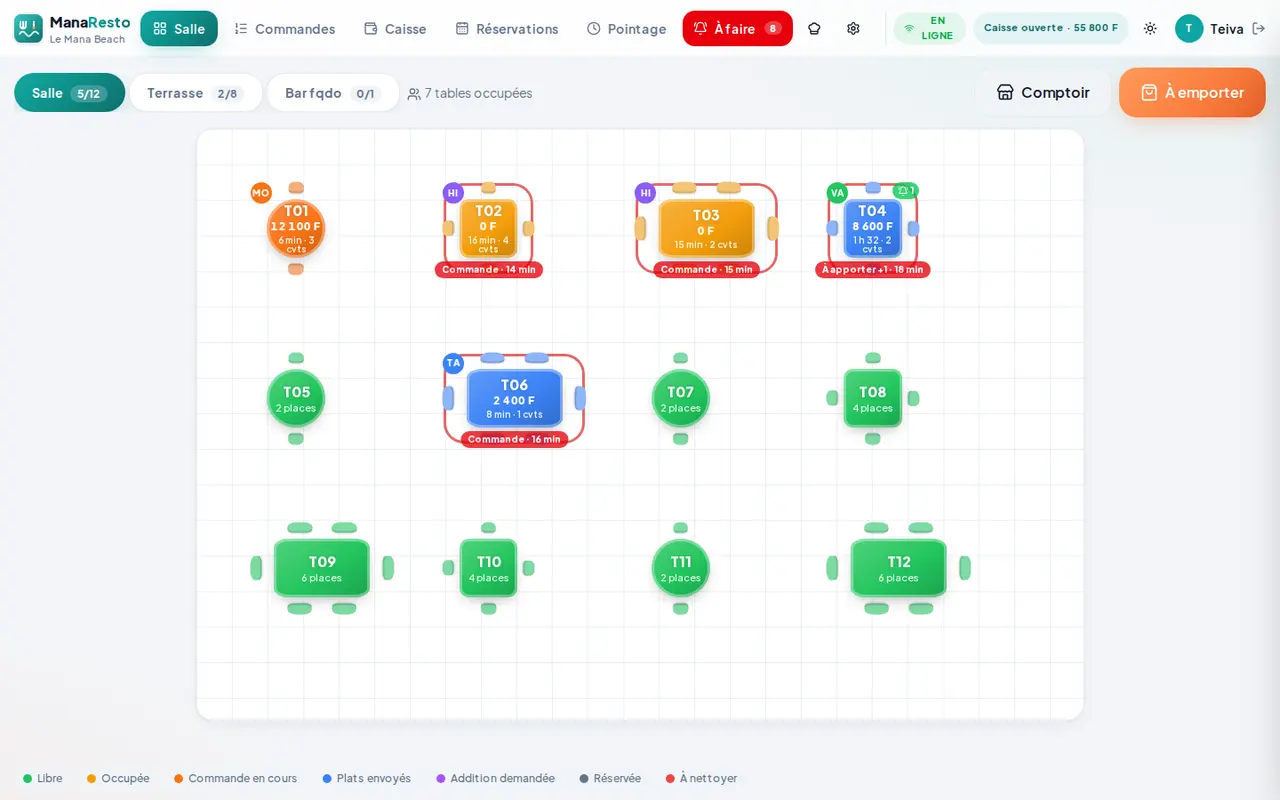
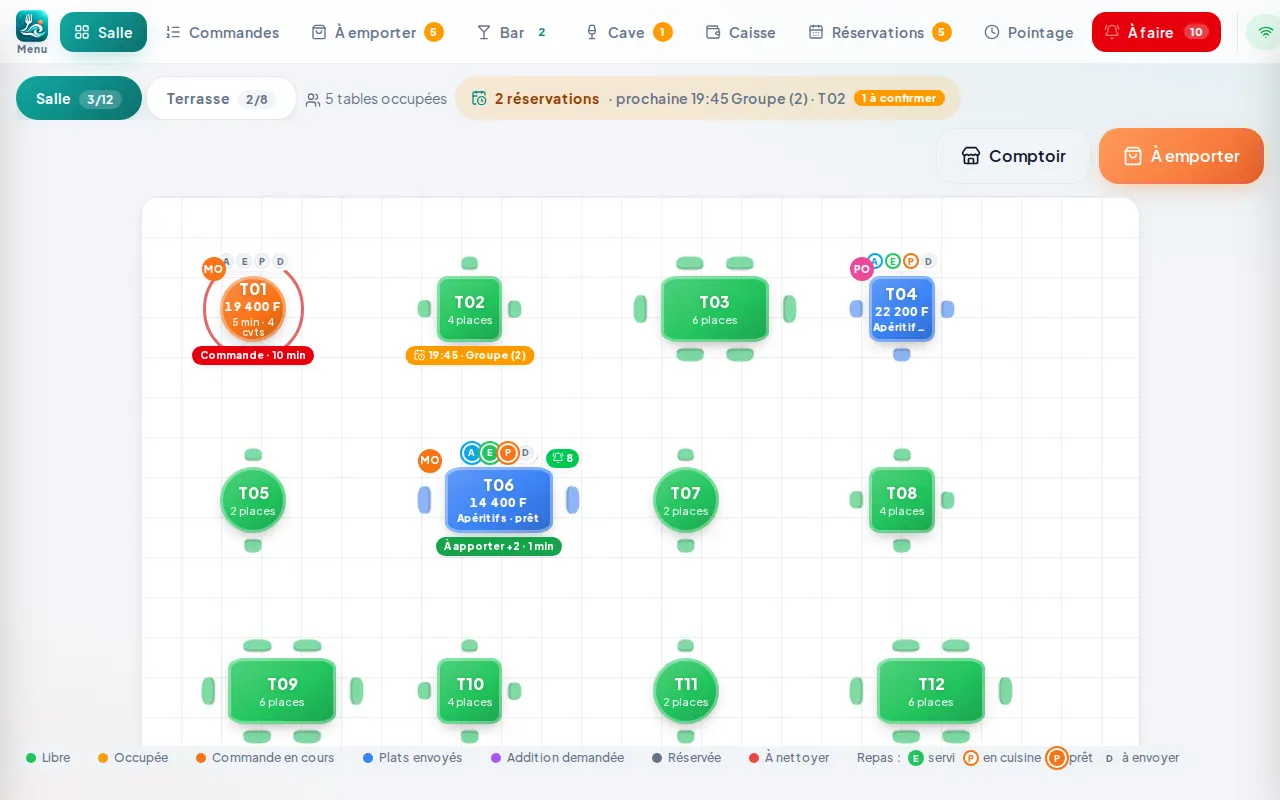
Site vitrine : captures d'écran à jour, avec les vraies photos des plats
Les captures du site (caisse, commande en ligne, plan de salle, À faire,
cuisine, tableau de bord, statistiques, vue téléphone) dataient d'avant
les photos des produits et montraient des catégories de test. Elles sont
reprises depuis une démo neuve par scripts/site-screenshots.mjs, et
leurs adresses portent ?v=2 pour passer outre le cache de 30 jours.

Claude-Session: https://claude.ai/code/session_01FzESwTgJMVa8XRMMjuz6hz

diff --git a/site/index.html b/site/index.html
@@ -115,8 +115,8 @@
           <p class="hero-note">Fonctionne sur tablette, ordinateur et smartphone · Caisse • Salle • Cuisine • Stock • Personnel • Commandes • Livraison • Réservations</p>
         </div>
         <div class="devices" aria-label="ManaResto sur ordinateur et sur téléphone">
-          <div class="frame anim-laptop"><img src="assets/img/order.webp" alt="Écran de caisse ManaResto : prise de commande avec photos des plats, table et services" width="1280" height="800" loading="lazy" decoding="async"></div>
-          <div class="phone-frame anim-phone"><img src="assets/img/m-floor.webp" alt="Plan de salle ManaResto sur smartphone avec l'état de chaque table" width="640" height="1090" loading="lazy" decoding="async"></div>
+          <div class="frame anim-laptop"><img src="assets/img/order.webp?v=2" alt="Écran de caisse ManaResto : prise de commande avec photos des plats, table et services" width="1280" height="800" loading="lazy" decoding="async"></div>
+          <div class="phone-frame anim-phone"><img src="assets/img/m-floor.webp?v=2" alt="Plan de salle ManaResto sur smartphone avec l'état de chaque table" width="640" height="1090" loading="lazy" decoding="async"></div>
         </div>
       </div>
       <div class="wave" aria-hidden="true"><svg viewBox="0 0 1440 64" preserveAspectRatio="none"><path d="M0 32c160-40 320-40 480 0s320 40 480 0 320-40 480 0v32H0z" fill="#fff"/></svg></div>
@@ -165,7 +165,7 @@
           <li><b>Addition</b><span>Le serveur voit immédiatement qu'une table attend son règlement.</span></li>
         </ol>
         <p class="strong-line reveal"><i data-icon="bell-ring"></i>Même pendant un gros service, chaque table reste visible et suivie.</p>
-        <div class="frame reveal" style="margin-top:28px"><img src="assets/img/service.webp" alt="Plan de salle ManaResto avec l'état de chaque table et le panneau « À faire maintenant » listant les actions des serveurs" width="1280" height="800" loading="lazy" decoding="async"></div>
+        <div class="frame reveal" style="margin-top:28px"><img src="assets/img/service.webp?v=2" alt="Plan de salle ManaResto avec l'état de chaque table et le panneau « À faire maintenant » listant les actions des serveurs" width="1280" height="800" loading="lazy" decoding="async"></div>
       </div>
     </section>
 
@@ -185,7 +185,7 @@
           </ul>
           <div class="section-cta"><a class="btn btn-lagon" href="#demo" data-track="cta_demo">Découvrir la commande en ligne</a></div>
         </div>
-        <div class="frame reveal"><img src="assets/img/online.webp" alt="Commande en ligne ManaResto : menu avec photos, retrait ou livraison, coordonnées du client" width="1280" height="800" loading="lazy" decoding="async"></div>
+        <div class="frame reveal"><img src="assets/img/online.webp?v=2" alt="Commande en ligne ManaResto : menu avec photos, retrait ou livraison, coordonnées du client" width="1280" height="800" loading="lazy" decoding="async"></div>
       </div>
     </section>
 
@@ -193,10 +193,10 @@
       <div class="wrap">
         <div class="section-head reveal"><span class="eyebrow">L'application</span><h2>Les écrans ManaResto, tels qu'ils sont.</h2><p class="lead">Des captures réelles du logiciel : plan de salle, caisse, cuisine, commandes et tableau de bord.</p></div>
         <div class="shots">
-          <figure class="shot wide reveal"><img src="assets/img/floor.webp" alt="Plan de salle ManaResto vu du dessus : tables avec chaises, couleurs selon l'état, montants en cours" width="1280" height="800" loading="lazy" decoding="async"><figcaption><b>Plan de salle</b><span>état des tables en temps réel</span></figcaption></figure>
-          <figure class="shot reveal"><img src="assets/img/kds.webp" alt="Écran cuisine ManaResto avec les tickets par poste et le temps écoulé" width="1280" height="800" loading="lazy" decoding="async"><figcaption><b>Cuisine</b><span>tickets par poste</span></figcaption></figure>
-          <figure class="shot reveal"><img src="assets/img/dashboard.webp" alt="Tableau de bord ManaResto : chiffre d'affaires du jour, tickets, couverts et plats les plus rentables" width="1280" height="800" loading="lazy" decoding="async"><figcaption><b>Tableau de bord</b><span>ventes et rentabilité</span></figcaption></figure>
-          <figure class="shot wide reveal"><img src="assets/img/stats.webp" alt="Statistiques ManaResto : faits marquants, indicateurs comparés, courbes de ventes" width="1280" height="800" loading="lazy" decoding="async"><figcaption><b>Statistiques</b><span>période comparée, produits, équipe, cuisine</span></figcaption></figure>
+          <figure class="shot wide reveal"><img src="assets/img/floor.webp?v=2" alt="Plan de salle ManaResto vu du dessus : tables avec chaises, couleurs selon l'état, montants en cours" width="1280" height="800" loading="lazy" decoding="async"><figcaption><b>Plan de salle</b><span>état des tables en temps réel</span></figcaption></figure>
+          <figure class="shot reveal"><img src="assets/img/kds.webp?v=2" alt="Écran cuisine ManaResto avec les tickets par poste et le temps écoulé" width="1280" height="800" loading="lazy" decoding="async"><figcaption><b>Cuisine</b><span>tickets par poste</span></figcaption></figure>
+          <figure class="shot reveal"><img src="assets/img/dashboard.webp?v=2" alt="Tableau de bord ManaResto : chiffre d'affaires du jour, tickets, couverts et plats les plus rentables" width="1280" height="800" loading="lazy" decoding="async"><figcaption><b>Tableau de bord</b><span>ventes et rentabilité</span></figcaption></figure>
+          <figure class="shot wide reveal"><img src="assets/img/stats.webp?v=2" alt="Statistiques ManaResto : faits marquants, indicateurs comparés, courbes de ventes" width="1280" height="800" loading="lazy" decoding="async"><figcaption><b>Statistiques</b><span>période comparée, produits, équipe, cuisine</span></figcaption></figure>
         </div>
       </div>
     </section>
